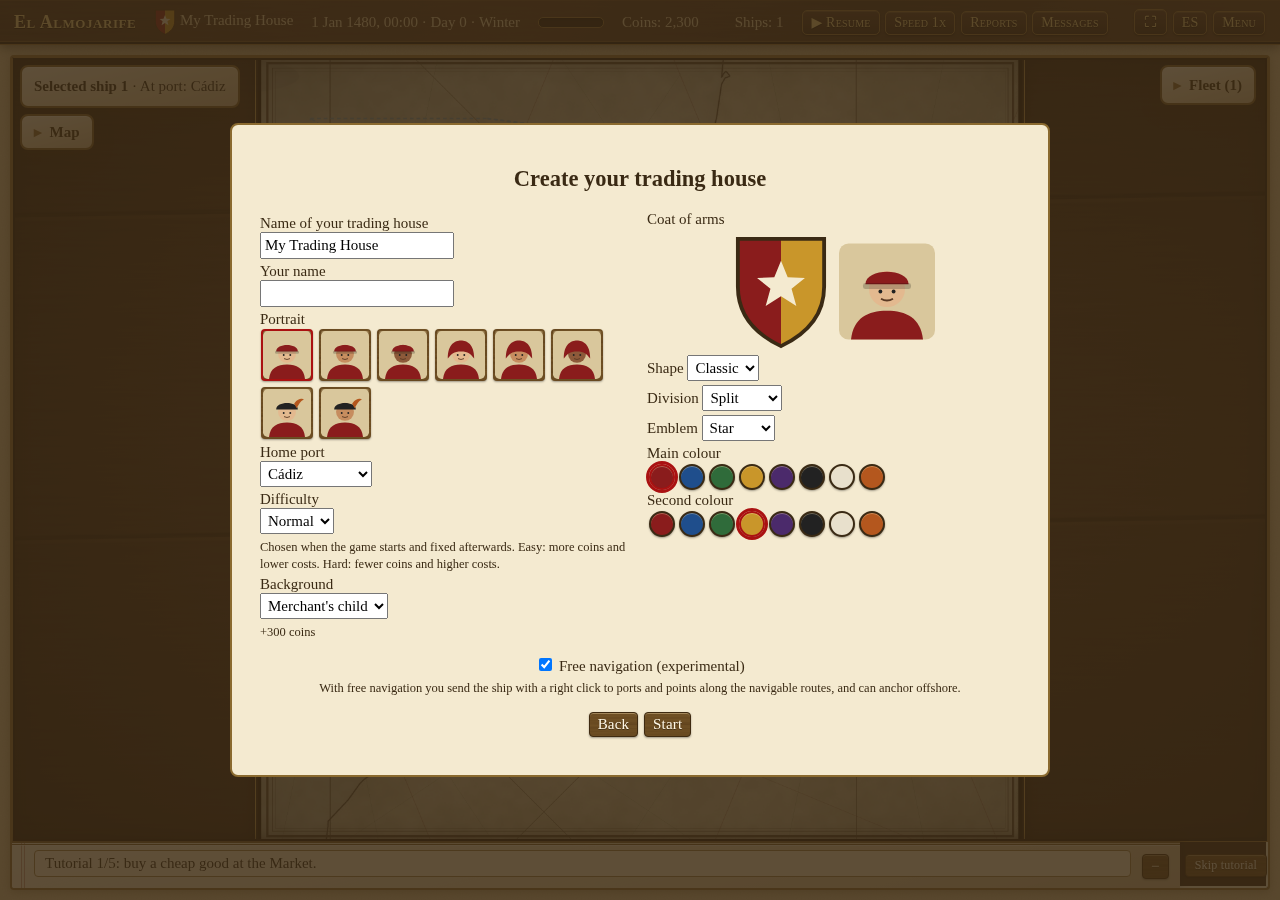
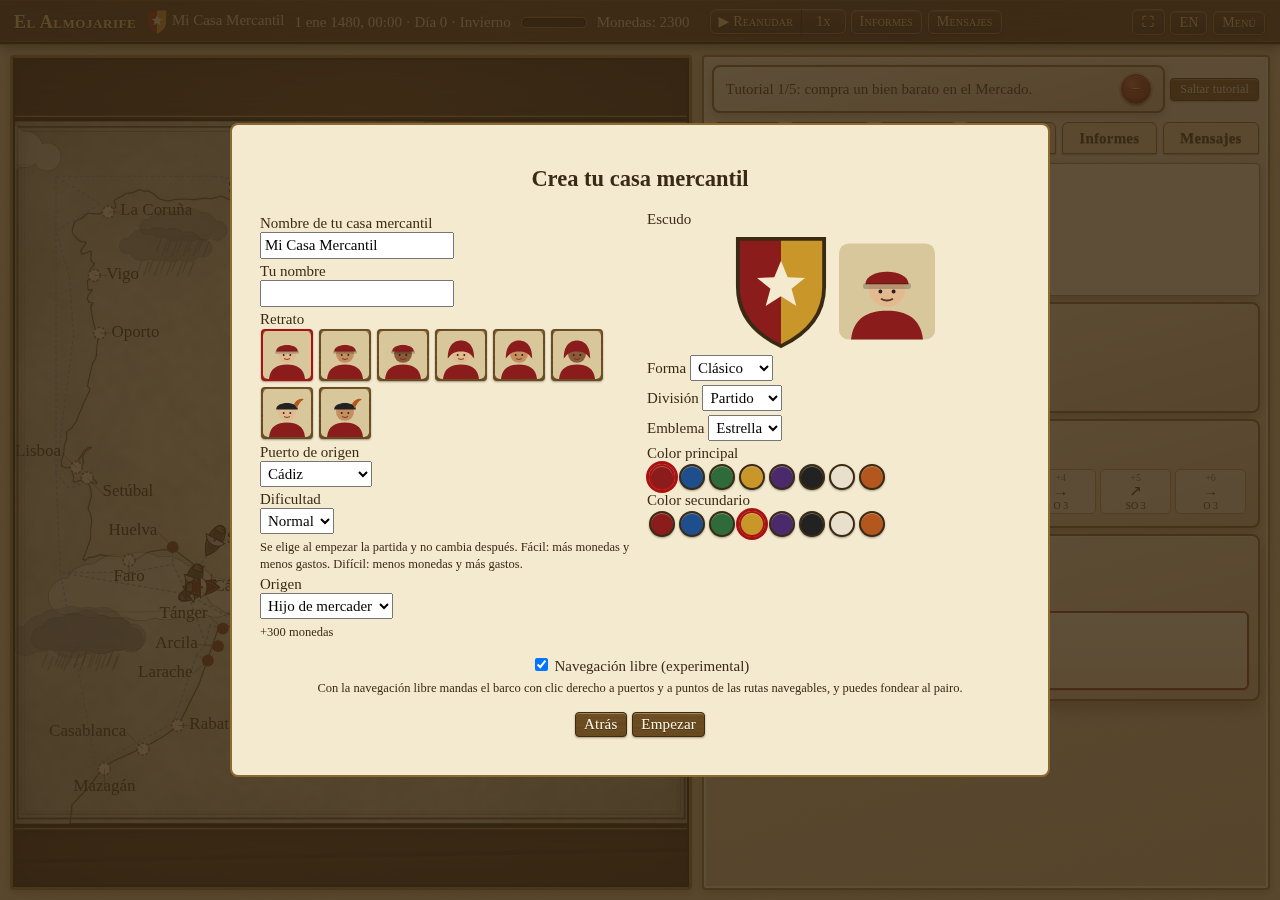
docs: refresh seven README screenshots from main 78a50f8 (Spanish UI)
Recaptured desktop 1280x900 at exact main 78a50f8e (v0.5.0-beta.1), Spanish
UI, via headless Chrome + CDP with a save minted through the game's own
startOptions (tutorial on, no goal, merchant background). map.png is
unchanged: still faithful to main. Stacked on #601 (both touch README.md).

diff --git a/README.md b/README.md
@@ -36,7 +36,7 @@ This README describes merged source at the documentation checkpoint, not a deplo
 
 ## Screenshots
 
-_Historical screenshot set, not release-candidate evidence. All eight screenshots were refreshed on 26 Oct 2026 (English). The city plan (`city2d.png`) was captured from the playable build at `main` d8a7383bf9713fd0d4f980363685cc1d06a1a22b and the sea chart (`map.png`) from `main` 4afd05024bf879820483a57e850a37b436e97cf8; the remaining six were captured from `main` c4ef80d84bdc1f500809eb4c7e163b0894a5fd2e. Refresh screenshots when the UI changes so they never show unmerged work._
+_Screenshot set from merged `main`: the city plan (`city2d.png`), the five port windows (`market.png`, `shipyard.png`, `tavern.png`, `bank.png`, `warehouse.png`) and the house-creation form (`create.png`) were refreshed on 27 Oct 2026 (Spanish UI) from the playable build at `main` 78a50f8e595b50ed6c611c68e0353f861deb6a99 (`v0.5.0-beta.1`); the sea chart (`map.png`) was captured from `main` 4afd05024bf879820483a57e850a37b436e97cf8 and remains accurate. Refresh screenshots when the UI changes so they never show unmerged work._
 
 | The city plan | Trade in the market |
 |---|---|
